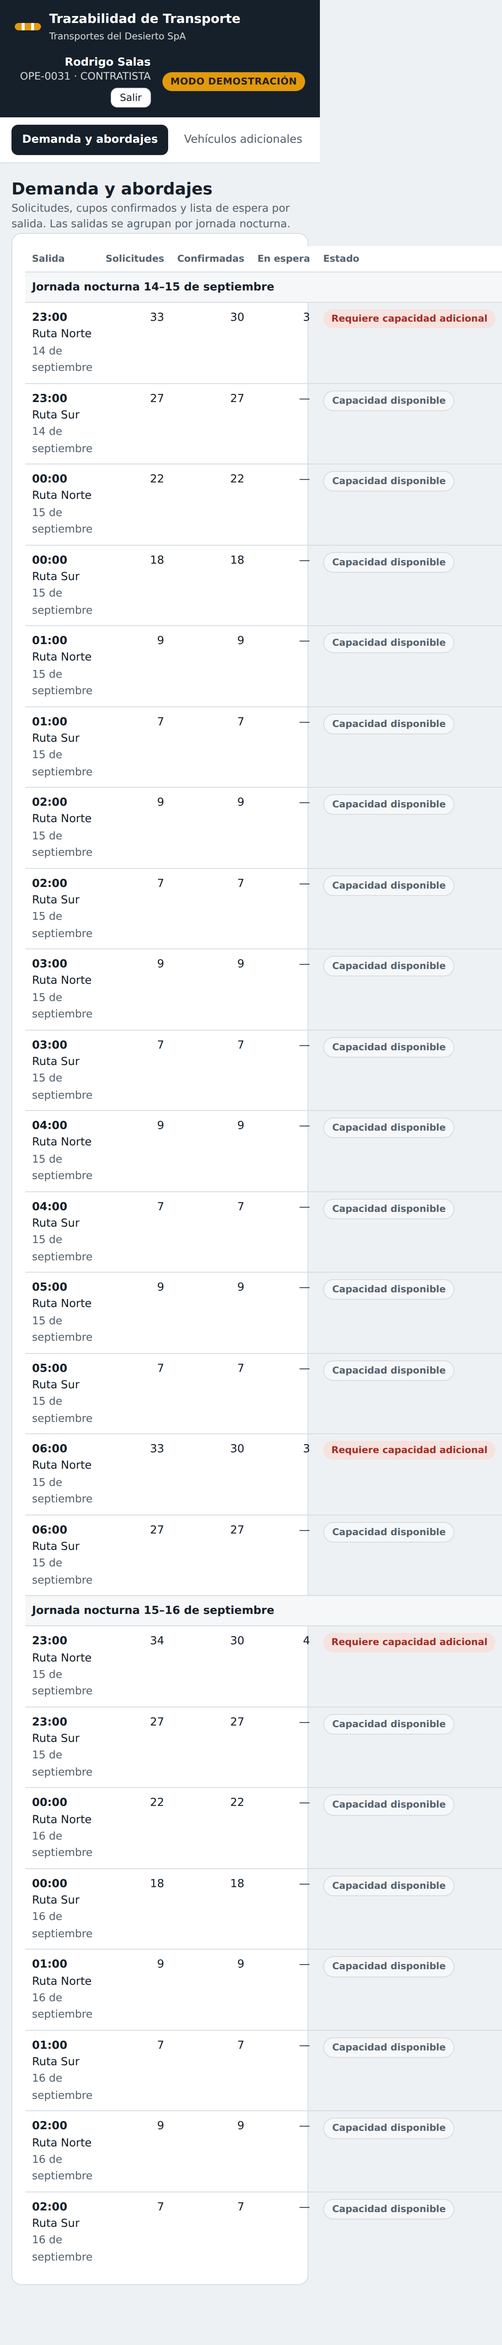
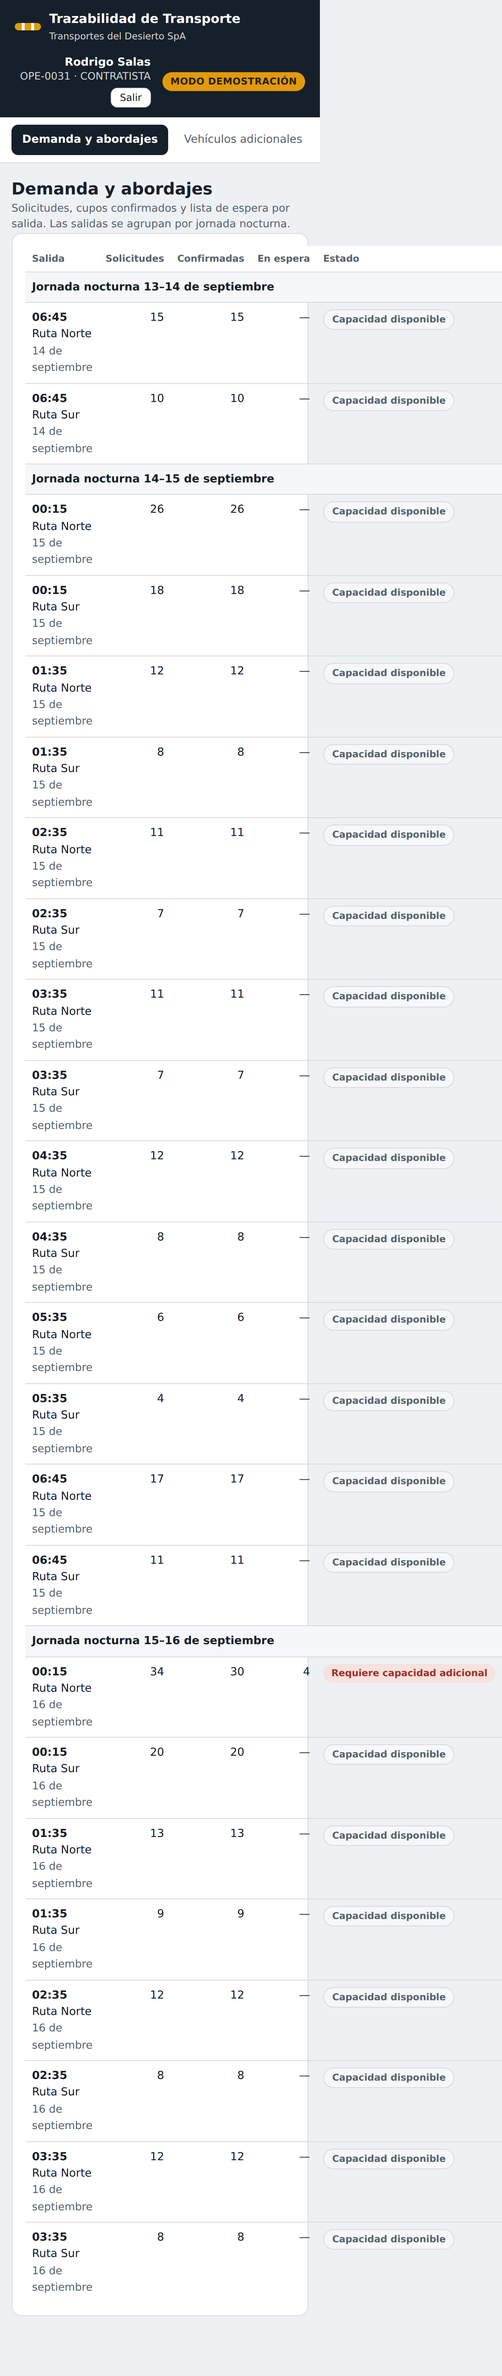
SPEC-003b: horario y demanda reales, extra ex post, tope por jornada; etapa 2 preparada
- app/: 7 salidas reales (H-022), demanda media real por salida y día
  (H-023), 4 vans × 15 (DEC-012), extra #1 de 2 vans validado ex post
  (DEC-009), tope de 2 vans extra por jornada (DEC-013), proyección 420,
  nueva solicitud permitida tras un Rechazado
- check-config 16/16, check-permisos 21/21, baseline PASS, E2E 12/12
- SPEC-003b, SPEC-006 (geolocalización de la van), SPEC-007 (MVP móvil en
  línea con ADR-001), cuestionario etapa 2, registro y backlog

Claude-Session: https://claude.ai/code/session_01LQhA5HvBgA1MaTVJupWpRJ

diff --git a/09-plataforma/app/index.html b/09-plataforma/app/index.html
@@ -120,7 +120,7 @@ tr:last-child td{border-bottom:none}
    migración a backend sea conectar, no rediseñar. La validación real de
    servidor pertenece a la fase 2 (ver aviso en la interfaz).
    Copia de trabajo — SPEC-002 aplicada (permisos en todas las mutaciones).
-   SPEC-003 aplicada (capacidad 15 por van, 2 vans extra).
+   SPEC-003 aplicada (capacidad 15 por van, 2 vans extra) · SPEC-003b: horario real 7 salidas, demanda real H-023, tope de extras por jornada.
    ========================================================================= */
 const KEY='trazabilidad_v3';   // SPEC-003 (QA D-1): clave versionada; un estado guardado con la semilla anterior a SPEC-003 no debe cargarse
 const AHORA=new Date('2026-09-15T18:30:00');
@@ -176,10 +176,11 @@ function semilla(){
      montoFijo:18500000, reglaDevengo:null,   // sin regla de devengo definida
      capacidadVan:15, vehiculos:4, vansExtraDisponibles:2, rutas:RUTAS,   // SPEC-003: 15 cupos garantizados por van; 2 vans extra completas a disposición
      origen:'Hotel Enjoy Antofagasta — Av. Angamos 01455',
-     frecuencias:'Salidas cada 1 hora desde el Enjoy; las vans recorren su ruta y regresan al hotel dentro del ciclo',
-     horarios:'Desde las 23:00 hasta las 06:00, cada 1 hora (8 salidas por jornada, por ruta — ventana operativa real del Enjoy) · ida (hotel → casas) y vuelta (casas → hotel) en cada ciclo',
+     frecuencias:'7 salidas por jornada desde el Enjoy según fin de turno; las vans recorren su ruta y regresan al hotel dentro del ciclo',
+     salidasPorJornada:7, salidas:[[0,15],[1,35],[2,35],[3,35],[4,35],[5,35],[6,45]],   // SPEC-003b (H-022): horario real del contratista
+     horarios:'Salidas a las 00:15, 01:35, 02:35, 03:35, 04:35, 05:35 y 06:45 (7 por jornada, por ruta — programación real del contratista); recogida cerca de las 23:00 para el ingreso de 00:00 · ida (hotel → casas) y vuelta (casas → hotel)',
      sentido:'Ida y vuelta en cada ciclo horario; puntos de bajada y de encuentro por definir con la planilla de trabajadores (SPEC-004)',
-     tiposVehiculo:'Van de pasajeros — 15 a 17 cupos por van (15 garantizados) · 2 vans por ruta', dotacion:300,
+     tiposVehiculo:'Van de pasajeros — 15 a 17 cupos por van (15 garantizados) · 4 vans en proyección, 2 por ruta', dotacion:394,
      reajuste:'IPC semestral (informativo — el monto reajustado se ingresa con trazabilidad)',
      extrasPermitidos:true, tarifaExtra:45000,
      requisitosExtra:'Demanda confirmada sobre los cupos de la salida, o contingencia operacional con evidencia',
@@ -187,26 +188,26 @@ function semilla(){
    servicios:[], reservas:[], extras:[], auditoria:[], conciliaciones:[]};
 
   const CAP=S.contrato.capacidadVan;   // SPEC-003 REQ-010: única fuente de la capacidad por van
-  const perfil=(h,ri)=>{ if(h===23||h===6) return ri===0?33:27;
-    if(h===0) return ri===0?22:18;
-    if(h>=1&&h<=5) return ri===0?9:7; return ri===0?20:14; };
-  const HORAS_OPERATIVAS=[23,0,1,2,3,4,5,6]; // ventana real Enjoy: 23:00–06:00, 1 salida/hora
+  // SPEC-003b (H-023): demanda media por salida de la semana real 31-08/06-09 (personas, ambas rutas) y factor por día de la jornada
+  const BASE_SALIDA=[55,24,22,23,25,13,35];                 // 00:15 · 01:35 · 02:35 · 03:35 · 04:35 · 05:35 · 06:45
+  const FACTOR_DIA=[0.7,0.8,0.9,1.0,1.2,1.4,1.4];            // domingo … sábado (jornada = noche que empieza ese día)
+  const perfil=(idx,ri,dow)=>Math.round(BASE_SALIDA[idx]*FACTOR_DIA[dow]*(ri===0?0.6:0.4));
   let sid=0,rid=0;
-  for(let d=8;d<=16;d++){
-    for(const hh of HORAS_OPERATIVAS){
-      const salida=new Date(2026,8,d,hh,0,0);
-      if(salida<new Date(2026,8,8,23,0,0)) continue;
-      if(salida>new Date(2026,8,16,6,0,0)) continue;
+  for(let d=9;d<=16;d++){
+    S.contrato.salidas.forEach(([hh,mm],idx)=>{
+      const salida=new Date(2026,8,d,hh,mm,0);
+      const dow=new Date(2026,8,d-1).getDay();            // día en que empieza la jornada nocturna
+      if(salida>new Date(2026,8,16,7,0,0)) return;
       RUTAS.forEach((R,ri)=>{
         sid++;
         const cierre=new Date(salida.getTime()-CIERRE_MIN*60000);
         const svc={id:sid,rutaIdx:ri,ruta:R.nombre,salida:salida.toISOString(),cierre:cierre.toISOString(),
           capacidadBase:R.vans*CAP,capacidadExtra:0,vans:R.vans,ejecutado:salida<AHORA};
         S.servicios.push(svc);
-        let n=perfil(hh,ri);
-        if(d===10&&hh===23&&ri===0) n=38; // caso extra #1: 38 solicitudes / 30 cupos, extra autorizado y utilizado
-        if(d===15&&hh===23&&ri===0) n=34; // caso de prueba: salida futura con lista de espera (34/30), sin extra
-        if(d===12&&hh===6&&ri===0) n=20; // caso Rechazado: demanda (20) bajo los 30 cupos, sin justificación
+        let n=perfil(idx,ri,dow);
+        if(d===13&&idx===0&&ri===0) n=56; // caso extra #1: sábado 12 → 00:15, 56 solicitudes / 30 cupos (real: 93 personas); 2 vans extra ex post
+        if(d===16&&idx===0&&ri===0) n=34; // caso de prueba: salida futura con lista de espera (34/30), sin extra
+        if(d===12&&idx===5&&ri===0) n=11; // caso Rechazado: demanda (11) bajo los 30 cupos, sin justificación
         for(let k=0;k<n;k++){ rid++;
           const p=R.paradas[k%R.paradas.length];
           S.reservas.push({id:rid,servicioId:sid,userId:((rid%299)+2),   // QA D-3: 2..300, nunca el userId 1 (Camila), que se asigna aparte
@@ -215,32 +216,32 @@ function semilla(){
             estado:'pendiente'});
         }
       });
-    }
+    });
   }
   // las reservas de Camila (userId 1) en servicios futuros de Ruta Norte
   const futuroN=S.servicios.filter(s=>!s.ejecutado&&s.rutaIdx===0).slice(0,3);
   futuroN.forEach((s,i)=>{ const r=S.reservas.find(r=>r.servicioId===s.id); if(r){r.userId=1;r.nombre='Camila Fuentes';} });
   S.extras=[
-   {id:1,servicioId:S.servicios.find(s=>s.rutaIdx===0&&dt(s.salida).getDate()===10&&dt(s.salida).getHours()===23).id,
-    motivo:'Reservas (38) superan los 30 cupos de la salida',tipo:'cuantitativa',vans:1,capacidadExtra:CAP,tarifa:45000,
-    estado:'Utilizado',solicitadoPor:2,fechaSolicitud:'2026-09-10T21:40:00',autorizadoPor:3,fechaAutorizacion:'2026-09-10T22:05:00',
-    motivoAutorizacion:'Demanda confirmada sobre capacidad',evidencia:{patente:true,salida:true,manifiesto:true},
-    pasajerosExtra:12,reclasificacion:null},
-   {id:2,servicioId:S.servicios.find(s=>s.rutaIdx===1&&dt(s.salida).getDate()===11&&dt(s.salida).getHours()===6).id,
+   {id:1,servicioId:S.servicios.find(s=>s.rutaIdx===0&&dt(s.salida).getDate()===13&&dt(s.salida).getHours()===0).id,
+    motivo:'Reservas (56) superan los 30 cupos de la salida — servicio prestado de madrugada, gestión presentada al día siguiente (DEC-009)',tipo:'cuantitativa',vans:2,capacidadExtra:2*CAP,tarifa:90000,
+    estado:'Utilizado',solicitadoPor:2,fechaSolicitud:'2026-09-13T09:30:00',autorizadoPor:3,fechaAutorizacion:'2026-09-13T11:10:00',
+    motivoAutorizacion:'Validación ex post: demanda confirmada sobre capacidad (DEC-009)',evidencia:{patente:true,salida:true,manifiesto:true},
+    pasajerosExtra:26,reclasificacion:null},
+   {id:2,servicioId:S.servicios.find(s=>s.rutaIdx===1&&dt(s.salida).getDate()===11&&dt(s.salida).getHours()===6).id,   // 06:45
     motivo:'Falla mecánica de una van al iniciar el recorrido',tipo:'operacional',vans:1,capacidadExtra:CAP,tarifa:45000,
-    estado:'Observado',solicitadoPor:2,fechaSolicitud:'2026-09-11T06:12:00',autorizadoPor:null,fechaAutorizacion:null,
+    estado:'Observado',solicitadoPor:2,fechaSolicitud:'2026-09-11T06:50:00',autorizadoPor:null,fechaAutorizacion:null,
     motivoAutorizacion:null,evidencia:{patente:true,salida:false,manifiesto:false},pasajerosExtra:11,reclasificacion:null,
     observacion:'Sin autorización previa; emergencia pendiente de validación y evidencia incompleta'},
-   {id:3,servicioId:S.servicios.find(s=>s.rutaIdx===0&&dt(s.salida).getDate()===12&&dt(s.salida).getHours()===6&&s.rutaIdx===0).id,
+   {id:3,servicioId:S.servicios.find(s=>s.rutaIdx===0&&dt(s.salida).getDate()===12&&dt(s.salida).getHours()===5).id,   // 05:35
     motivo:'Refuerzo preventivo por posible alta demanda',tipo:'cuantitativa',vans:1,capacidadExtra:CAP,tarifa:45000,
-    estado:'Rechazado',solicitadoPor:2,fechaSolicitud:'2026-09-12T05:40:00',autorizadoPor:3,fechaAutorizacion:'2026-09-12T05:55:00',
-    motivoAutorizacion:'Reservas (20) no superan los 30 cupos y sin contingencia acreditada',
+    estado:'Rechazado',solicitadoPor:2,fechaSolicitud:'2026-09-12T05:05:00',autorizadoPor:3,fechaAutorizacion:'2026-09-12T05:20:00',
+    motivoAutorizacion:'Reservas (11) no superan los 30 cupos y sin contingencia acreditada',
     evidencia:{patente:false,salida:false,manifiesto:false},pasajerosExtra:0,reclasificacion:null}];
   // QA D-2: el extra #1 fue autorizado y utilizado, por lo que su salida ya tiene la capacidad ampliada
-  { const s1=S.servicios.find(s=>s.id===S.extras[0].servicioId); s1.capacidadExtra=CAP; }
+  { const s1=S.servicios.find(s=>s.id===S.extras[0].servicioId); s1.capacidadExtra=S.extras[0].capacidadExtra; }
   S.auditoria=[
-   {fecha:'2026-09-10T22:05:00',usuario:'Patricia Molina',rol:'MANDANTE',accion:'Capacidad ampliada por extra #1',detalle:'Ruta Norte 23:00 — capacidad 30 → 45',anterior:'capacidad 30'},
-   {fecha:'2026-09-10T22:05:00',usuario:'Patricia Molina',rol:'MANDANTE',accion:'Extra #1 autorizado',detalle:'Demanda sobre capacidad',anterior:'En revisión'}];
+   {fecha:'2026-09-13T11:10:00',usuario:'Patricia Molina',rol:'MANDANTE',accion:'Capacidad ampliada por extra #1',detalle:'Ruta Norte 00:15 — capacidad 30 → 60',anterior:'capacidad 30'},
+   {fecha:'2026-09-13T11:10:00',usuario:'Patricia Molina',rol:'MANDANTE',accion:'Extra #1 validado ex post',detalle:'Servicio prestado de madrugada; gestión presentada al día siguiente (DEC-009)',anterior:'En revisión'}];
   recalcularTodo(S);
   return S;
 }
@@ -500,7 +501,7 @@ function vOperacion(){
 }
 function vExtras(){
   if(!requirePermission('ver:operacion')) return vDenegado();
-  const cand=S.servicios.filter(s=>!s.ejecutado&&!S.extras.some(e=>e.servicioId===s.id))
+  const cand=S.servicios.filter(s=>!s.ejecutado&&!S.extras.some(e=>e.servicioId===s.id&&e.estado!=='Rechazado'))   // un Rechazado no bloquea una nueva solicitud (nueva necesidad = nueva solicitud)
     .sort((a,b)=>a.salida<b.salida?-1:1).slice(0,14);
   return `<h1>Vehículos adicionales</h1><p class="sub">Se solicita una van completa (cupos según contrato) para una salida; hay ${S.contrato.vansExtraDisponibles} vans adicionales a disposición; se cobra por van, no por pasajero. El sistema muestra la justificación; la decisión es del mandante.</p>
   <div class="tarjeta" style="border-color:var(--ambar)"><h2>Solicitar van adicional</h2>
@@ -539,6 +540,10 @@ function creaSolicitud(sid){
   if(!N.auto&&!razon){alert('Debes indicar una razón operacional.');return;}
   const vans=Number(document.getElementById('mVans').value);   // QA D-4: sin valor por defecto silencioso
   if(!Number.isInteger(vans)||vans<1||vans>S.contrato.vansExtraDisponibles){alert('Solo hay '+S.contrato.vansExtraDisponibles+' van(es) adicional(es) a disposición según contrato.');return;}   // SPEC-003 R6
+  // SPEC-003b R7 (DEC-013): tope de vans extra por jornada nocturna, contando solicitudes no rechazadas
+  const J=jornadaDe(s.salida).id;
+  const usadas=S.extras.filter(e=>e.estado!=='Rechazado'&&jornadaDe(S.servicios.find(x=>x.id===e.servicioId).salida).id===J).reduce((a,e)=>a+e.vans,0);
+  if(usadas+vans>S.contrato.vansExtraDisponibles){alert('Tope por jornada: ya hay '+usadas+' van(es) extra solicitada(s) en esta jornada; el contrato permite '+S.contrato.vansExtraDisponibles+'.');return;}
   const id=Math.max(0,...S.extras.map(e=>e.id))+1;
   S.extras.push({id,servicioId:sid,motivo:(razon?razon+' — ':'')+motivo,tipo:N.auto?'cuantitativa':'operacional',
     vans,capacidadExtra:vans*S.contrato.capacidadVan,tarifa:S.contrato.tarifaExtra*vans,estado:'Solicitado',
@@ -620,8 +625,8 @@ function periodo(){
   const hasta=svcMes.filter(s=>s.ejecutado);
   const rsHasta=S.reservas.filter(r=>r.estado==='confirmada'&&hasta.some(s=>s.id===r.servicioId));
   const capHasta=hasta.reduce((a,s)=>a+capacidadTotal(s),0);
-  // proyección: el mes completo tiene 30 días × 8 salidas × 2 rutas (DEC-004)
-  const svcMesCompleto=30*8*2; // 8 salidas/ruta (23:00–06:00) × 2 rutas × 30 días
+  // proyección: el mes completo tiene 30 días × 7 salidas × 2 rutas (H-022, SPEC-003b)
+  const svcMesCompleto=30*S.contrato.salidasPorJornada*S.contrato.rutas.length;
   const factor=div(svcMesCompleto,hasta.length)||1;
   return {ejecutados:hasta.length,programados:svcMes.length,transportados:rsHasta.length,capacidad:capHasta,
     ocupacion:div(rsHasta.length,capHasta),cuposLibres:Math.max(capHasta-rsHasta.length,0),

diff --git a/06-gobernanza/registro-aprobaciones.md b/06-gobernanza/registro-aprobaciones.md
@@ -14,6 +14,10 @@
 | 2026-09-08 | DEC-010 | SPEC-001 D1–D4 y D6 | **Aprobadas las opciones sugeridas**: D1 RUT normalizado + organización como identificador; D2 el supervisor del mandante aprueba el alta, el contratista solo consulta; D3 verificación por correo corporativo con enlace de un solo uso, sin biometría; D4 retención período contractual + 12 meses y anonimización posterior, documentada en contrato de encargo (V-08); D6 simular alta/aprobación en `app/` con marca "simulación", backend pendiente de ADR-001 | Ver tabla de SPEC-001 | "Sí" del dueño a las opciones sugeridas | Eduardo | **Aprobada** |
 | 2026-09-08 | DEC-011 | Contacto comercial AllRide (V-10) | **Autorizado** solicitar demo o ficha técnica a AllRide con las preguntas cerradas de S2b. El contacto lo realiza Eduardo (identidad y relación comercial son suyas); el Supervisor prepara la lista de preguntas | No contactar; decidir con fragmentos | Cierra el vacío que decide comprar/configurar/construir | Eduardo | **Aprobada** |
 | 2026-09-08 | H-022 (evidencia observada) | Horario real de salidas | Reporte semanal del contratista al mandante (31-08 a 06-09-2026, captura entregada por el dueño): salidas **00:15, 01:35, 02:35, 03:35, 04:35, 05:35 y 06:45**, iguales de domingo a jueves y viernes-sábado-vísperas; el reporte excluye colaboradores con licencia o permiso de día completo; el ingreso de las 00:00 se recoge cerca de las 23:00. Difiere del "cada hora en punto" de DEC-004: son 7 salidas con minutos fijos. **No se cambia la semilla en este cierre**; queda como SPEC-003b | — | Documento operativo real (tipo observada/contractual) | Eduardo (fuente) | **Registrada, pendiente de SPEC** |
+| 2026-09-08 | DEC-012 | Proyección de flota | **Aprobada**: la proyección es de 4 vans, 15 personas por van (cierra V-17 en lo esencial) | — | Declaración del dueño | Eduardo | **Aprobada** |
+| 2026-09-08 | DEC-013 | Tope de extras | **Aprobada**: tope de 2 vans extra **por jornada nocturna** (no por solicitud). Implementado como R7 en SPEC-003b | Tope por solicitud | Declaración del dueño | Eduardo | **Aprobada** |
+| 2026-09-08 | V-18 cerrado | Agrupación de rutas | Hoy el **contratista** agrupa las direcciones en rutas | — | Declaración del dueño | Eduardo | Cerrado |
+| 2026-09-08 | Instrucción del dueño — etapa 2 | Alcance | Cerrar el MVP en una sesión más con conciliación y geolocalización de ruta "estilo Uber"; versión móvil en línea (Vercel o similar); trabajar desde carpeta spec-driven con cuestionario. El Supervisor registra que geolocalización, backend y publicación **requieren DEC específica** (manual sección 11) y preparó SPEC-006, SPEC-007/ADR-001 y el cuestionario para obtenerlas en una sola respuesta | — | — | Eduardo | Pendiente de las DEC que abre el cuestionario |
 | 2026-09-08 | H-023 (evidencia observada) | Demanda real del transfer | Planilla semanal del mandante 31-08 a 06-09-2026: 1.389 traslados de salida, 394 personas, 7 horarios; punta 00:15 con 40–93 personas (sábado 93 > 60 cupos de 4 vans); recogida hacia el hotel marginal (55). Original con datos personales **fuera del repositorio**; agregados en `02-descubrimiento/agregado-transfer-semana-31ago-06sep-2026.md` | — | Documento operativo real | Eduardo (fuente) | **Registrada; abre V-17, V-18 y SPEC-003b/SPEC-004** |
 | 2026-09-08 | V-16 (declarado, precisado por DEC-008; queda solo la cifra "24 viajes") | Configuración operativa real | El dueño declara: "las 24 viajes son de 4 vans diferentes, cerca de 15 pasajeros". Contradice la configuración del prototipo (vans de 4 cupos, 2 rutas × 2 vans, 8 salidas/ruta/noche = 16 salidas). **No se altera el prototipo hasta precisar**: ver SPEC-003 borrador | — | Evidencia declarada; el manual exige elevar la decisión, no alterar en silencio | Eduardo (pendiente) | **Pendiente de precisión** |
 

diff --git a/06-gobernanza/cuestionario-etapa-2.md b/06-gobernanza/cuestionario-etapa-2.md
@@ -1,0 +1,41 @@
+# Cuestionario etapa 2 — lo que necesito para cerrar el MVP con el mínimo de tokens
+Responde en un solo mensaje, con el número y una línea. Donde hay opción sugerida, basta "ok". Lo que no respondas se toma con la opción sugerida y queda registrado como supuesto.
+
+## A. Geolocalización de ruta "estilo Uber" (SPEC-006)
+| # | Pregunta | Opción sugerida |
+|---|---|---|
+| A1 | ¿Qué se geolocaliza: la **van** (conductor, teléfono del contratista) o el **trabajador**? | Solo la van. Rastrear personas en continuo choca con la Ley 21.719 (H-001) y con el límite de producto ya decidido |
+| A2 | ¿Quién ve la posición de la van en vivo? | Trabajador con reserva confirmada en esa salida (solo su van); contratista y mandante ven todas |
+| A3 | ¿Qué se guarda después del viaje? | Solo eventos: salida del hotel, llegada a cada parada, fin de ruta, con hora y coordenada. No el rastro completo |
+| A4 | ¿Con qué se captura la posición? | GPS del teléfono del conductor desde la app móvil, al pulsar "Iniciar ruta" |
+| A5 | ¿Se necesita mapa con calles (proveedor externo) o basta un esquema con paradas y avance? | Para el MVP, mapa abierto sin cuenta ni costo (OpenStreetMap con Leaflet); se decide proveedor pago en G2 |
+
+## B. Puntos de ruta (SPEC-004)
+| # | Pregunta | Opción sugerida |
+|---|---|---|
+| B1 | ¿Me autorizas a agrupar las 312 calles de la planilla en sectores para proponer paradas? Necesito geocodificar direcciones anonimizadas (calle sin número + Antofagasta) con un servicio abierto | Sí, con calles sin número y sin nombres |
+| B2 | ¿Cuántas paradas por ruta como máximo tolera el ciclo de ~50 y ~30 minutos? | 6 Norte, 4 Sur, como hoy |
+| B3 | ¿Las 4 vans salen todas a la misma hora en cada salida, o se reparten? | Todas a la misma hora, 2 por ruta |
+
+## C. Versión móvil en línea (SPEC-007 / ADR-001)
+| # | Pregunta | Opción sugerida |
+|---|---|---|
+| C1 | ¿Quién tendrá la cuenta de hosting? | Eduardo, en Vercel (plan gratuito); el Supervisor prepara el proyecto y Eduardo pulsa "deploy" |
+| C2 | ¿Dominio propio o subdominio del proveedor? | Subdominio gratuito para el MVP |
+| C3 | ¿Datos compartidos entre celulares? Hoy cada navegador guarda lo suyo. Para que el mandante vea la reserva del trabajador hace falta un backend | Sí: Supabase (Postgres + auth, plan gratuito), en ADR-001 con costo verificado antes de contratar |
+| C4 | ¿Se aceptan datos ficticios en la versión en línea hasta tener contrato de encargo de datos (V-08)? | Sí, ficticios hasta firmar |
+| C5 | ¿Instalación como app en el celular (PWA, "añadir a pantalla de inicio") o app de tienda? | PWA; tiendas fuera de alcance |
+
+## D. Conciliación y extras
+| # | Pregunta | Opción sugerida |
+|---|---|---|
+| D1 | Plazo para presentar el extra ex post (DEC-009) | Hasta las 12:00 del día siguiente |
+| D2 | ¿Quién valida el extra ex post en el mandante? | Supervisor del mandante (Patricia en la demo) |
+| D3 | ¿La conciliación mensual se emite en PDF descargable? | Sí, una página, correlativo CT-AAAA-NN |
+| D4 | ¿Tarifa por van extra real y monto fijo real del contrato? | Se mantienen los de demo hasta recibir el contrato (V-05) |
+
+## E. Datos que faltan (adjuntar cuando existan)
+- E1 Contrato de transporte, aunque sea anonimizado (V-05).
+- E2 Patentes e inscripción TTEPRIV de las vans (V-07), sin datos del conductor.
+- E3 Respuesta de AllRide a las preguntas de S2b (DEC-011).
+- E4 Planilla semanal siguiente, solo con las columnas: n° interno, calle sin número, fin de turno, salida transfer.

diff --git a/04-especificaciones/SPEC-007-mvp-movil-en-linea.md b/04-especificaciones/SPEC-007-mvp-movil-en-linea.md
@@ -1,0 +1,30 @@
+# SPEC-007 — MVP móvil en línea (multiusuario real)
+Estado: **Borrador — requiere DEC de backend y de publicación** (manual, sección 11: publicar o desplegar siempre requiere humano). Propietario humano: Eduardo Perrot. Origen: instrucción del dueño 2026-09-08 ("versión para celular en línea, Vercel o algo relacionado"), ADR-001, SPEC-001 (DEC-010), SPEC-002, SPEC-006.
+
+## 1. Problema y resultado
+El HTML actual vive en un solo navegador: la reserva de Camila no la ve Rodrigo. Resultado: la misma app, instalable en el celular, con datos compartidos y permisos validados en servidor.
+
+## 3. Alcance del MVP en línea
+Incluido: interfaz actual convertida a PWA (manifest, ícono, "añadir a pantalla de inicio", funciona sin señal para consultar); autenticación por correo con enlace de un solo uso (DEC-010 D3); base de datos con las entidades de ADR-001; reglas de acceso en servidor equivalentes a `requirePermission` (SPEC-002 R2/R3) y a las reglas de negocio (tope por jornada, observado no concilia); despliegue en hosting estático + backend administrado.
+Excluido en esta SPEC: geolocalización (SPEC-006, se apoya en esta base), integraciones con terceros, datos personales reales antes del contrato de encargo (V-08).
+
+## ADR-001 — opciones concretas para decidir (sin cotización inventada; precios a verificar en la web del proveedor antes de contratar)
+| Opción | Qué es | A favor | En contra | Costo de arranque |
+|---|---|---|---|---|
+| A. Vercel (estático) + Supabase (Postgres, auth, reglas por fila, tiempo real) | La interfaz actual, sin framework, sirviendo desde Vercel; datos y login en Supabase | Cero servidor propio; reglas de acceso por fila en base de datos; tiempo real para la posición de la van; planes gratuitos para piloto | Dependencia de dos proveedores; residencia de datos fuera de Chile (V-04) | Gratis para el piloto según planes publicados; verificar límites |
+| B. Vercel + Firebase (Firestore, auth) | Igual que A con Google | Muy usado en móviles; tiempo real | Reglas de seguridad menos expresivas para multiempresa; modelo documental complica la conciliación | Gratis para piloto; verificar |
+| C. Servidor propio (Node + Postgres en un VPS chileno) | Backend a medida | Control total y residencia en Chile | Operación, respaldos y seguridad a cargo del proyecto; más tiempo | Desde un VPS mensual; verificar |
+**Recomendación del Supervisor:** A, por proporcionalidad (manual: "costo de implantación proporcional") y porque las reglas por fila cubren el aislamiento por organización y contrato. Decisión de Eduardo en G2/G4 abreviadas.
+
+## Plan de construcción (3 cortes verticales, cada uno con SPEC breve y prueba)
+1. Corte 1: PWA + login por correo + lectura de salidas y reservas desde la base (trabajador reserva; contratista ve demanda).
+2. Corte 2: extras con estados, tope por jornada, validación ex post (DEC-009), evidencia y auditoría en servidor.
+3. Corte 3: conciliación con cierre inmutable y PDF; luego SPEC-006 posición de la van.
+
+## Requisitos transversales
+- REQ-030 Ninguna regla de acceso vive solo en el cliente; QA intenta ID ajeno, contrato ajeno y mutación tras cierre (08-validacion/criterios.md).
+- REQ-031 Zona horaria America/Santiago en servidor y base (T-10).
+- REQ-032 Semilla ficticia en línea hasta contrato de encargo de datos; un solo interruptor "modo demostración".
+
+## 11. Decisiones que faltan
+C1–C5 del cuestionario; aprobación de proveedor (DEC), de publicación (DEC) y de uso de datos reales (DEC, después de V-08).

diff --git a/04-especificaciones/SPEC-006-geolocalizacion-ruta.md b/04-especificaciones/SPEC-006-geolocalizacion-ruta.md
@@ -1,0 +1,30 @@
+# SPEC-006 — Seguimiento de la van en ruta ("estilo Uber", acotado)
+Estado: **Borrador — requiere DEC** (datos personales y alcance). Propietario humano: Eduardo Perrot. Origen: instrucción del dueño 2026-09-08 ("conciliación geolocalización para ruta, estilo Uber"), H-001, H-002, H-013, H-014, cuestionario A1–A5.
+
+## 1. Problema y resultado
+El trabajador no sabe dónde viene la van ni cuánto falta; el mandante no tiene evidencia de que la ruta se ejecutó con sus paradas. Resultado: cada salida deja un **registro de ejecución** (salida del hotel, paso por cada parada, fin) con hora y coordenada, y el trabajador con reserva ve la van acercarse en un mapa.
+
+## 2. Evidencia y límite
+- H-001: rastrear personas en continuo es tratamiento de alto riesgo. **Se geolocaliza la van, nunca al trabajador.** El teléfono del trabajador no envía posición.
+- H-013/H-014: el manifiesto y el registro de ejecución son la evidencia que venden los líderes; la posición en vivo es comodidad, la evidencia es el producto.
+- H-002: la van rastreada debe ser un vehículo identificado (patente) — enlaza con el maestro de vehículos (T-12).
+
+## 3. Alcance del MVP
+Incluido: botón "Iniciar ruta" del conductor u operador del contratista (GPS del teléfono, envío cada 15–30 s mientras la ruta está activa); mapa con paradas y posición actual visible para el trabajador con reserva confirmada en esa salida y para contratista y mandante; eventos de parada registrados (automáticos por cercanía o manuales); al cerrar la ruta se conserva solo la lista de eventos, no el rastro.
+Excluido: geocercas sobre personas, cámaras de fatiga, tracking fuera de la ruta activa, cálculo de tiempos de llegada con tráfico (queda como estimación por distancia).
+
+## 4. Requisitos (borrador)
+- REQ-020 La posición se asocia a `vehiculo` + `servicio`, nunca a `usuario` trabajador.
+- REQ-021 Solo hay posición mientras la ruta está "activa"; al cerrar, se borra el rastro y quedan los eventos.
+- REQ-022 El trabajador ve únicamente la van de su reserva confirmada; acceso por contrato y titularidad (SPEC-002 en servidor).
+- REQ-023 Eventos de parada alimentan el manifiesto y la evidencia del extra (patente, salida, ruta efectiva; sección 6 del prompt original).
+- REQ-024 Sin señal: el teléfono del conductor acumula eventos y sincroniza al recuperar red.
+
+## 6. Autorización y datos
+Responsable: mandante; encargado: plataforma (V-08). Retención de eventos: la misma que las reservas (DEC-010 D4). Base de licitud: ejecución del contrato. Evaluación de impacto recomendada antes del piloto real.
+
+## 8. Aceptación (a completar)
+AC: trabajador sin reserva no ve ninguna van · trabajador de contrato B no ve vans de A · al cerrar ruta no queda rastro · evento de parada con hora y coordenada por cada parada de la ruta · conductor sin señal sincroniza después.
+
+## 11. Decisiones abiertas
+A1–A5 del cuestionario. **Requiere backend (SPEC-007/ADR-001): la posición debe viajar entre teléfonos; no es posible en el HTML autónomo.**

diff --git a/00-contexto/ESTADO-ACTUAL.md b/00-contexto/ESTADO-ACTUAL.md
@@ -42,9 +42,17 @@ DEC-001 investigación autorizada; DEC-002 secuencia S1→S2→S3→S4→S5; DEC
 ## Cierre de etapa parcial (2026-09-08, final)
 Ver `06-gobernanza/cierre-etapa-1.md`. Nuevas decisiones: DEC-009 extra ex post (madrugada sin autorizador; solicitud al día siguiente), DEC-010 SPEC-001 D1–D6 aprobadas, DEC-011 contacto AllRide autorizado. Evidencia nueva H-022: horario real del contratista 00:15, 01:35, 02:35, 03:35, 04:35, 05:35, 06:45 (7 salidas, no "cada hora en punto"); no aplicado aún a la semilla.
 
+## Avance posterior al cierre (misma fecha)
+- DEC-012 (4 vans, 15 por van), DEC-013 (tope 2 vans extra por jornada), V-18 cerrado (el contratista agrupa rutas).
+- **SPEC-003b implementada y verificada** en `app/`: 7 salidas reales, demanda real reescalada (H-023), extra #1 ex post de 2 vans (DEC-009), tope por jornada, proyección 420. Pruebas 16/16, 21/21, baseline PASS, E2E 12/12. Sin revisión QA independiente por restricción de tokens (T-15).
+- Etapa 2 preparada: `06-gobernanza/cuestionario-etapa-2.md` (responder en un mensaje), `SPEC-006-geolocalizacion-ruta.md` (van, no persona) y `SPEC-007-mvp-movil-en-linea.md` con ADR-001 en tres opciones (recomendada: Vercel + Supabase).
+
 ## Prioridad de arranque (próxima sesión)
-0. Leer `06-gobernanza/cierre-etapa-1.md` y seguir su orden: SPEC-003b (H-022), SPEC-005 (DEC-009), SPEC-004 (planilla), SPEC-001 completa, V-10, ADR-001.
-1. Observaciones del dueño tras la demo.
+0. Leer el cuestionario respondido; registrar las DEC que abre (proveedor, publicación, geolocalización de la van, datos ficticios en línea).
+1. SPEC-007 corte 1 (PWA + login + datos compartidos) con constructor y revisor-qa; T-15 revisión QA de SPEC-003b.
+2. SPEC-004 puntos de ruta con la planilla anonimizada (B1–B3); SPEC-005 extra ex post con plazo (D1–D2).
+3. SPEC-006 posición de la van sobre el backend del corte 1.
+4. Conciliación con PDF (D3) y cierre inmutable (T-08).
 2. Planilla de trabajadores **anonimizada** según `02-descubrimiento/LEEME-planilla.md` → SPEC-004 (puntos de bajada y encuentro, reserva por sentido).
 3. Decisiones D1–D4 y D6 de SPEC-001 (basta un "sí" a las opciones sugeridas o corregirlas).
 4. Autorización para demo o contacto con AllRide (cierre total de V-10); PDF fechado de sus páginas.

diff --git a/07-backlog/tareas.md b/07-backlog/tareas.md
@@ -11,7 +11,10 @@
 | T-08 | Extras/evidencia/cierre inmutable | Especificar tras flujo inicial | Cierre reproducible sin alteración histórica |
 | T-09 | SPEC-003 configuración operativa real (DEC-008: 15 cupos/van, 2 vans extra, cobro por van) | **Implementada y revisada** (15/15, QA sin bloqueantes); falta contraprueba manual del dueño. Pendiente menor: D-5, D-6, D-8 y tope por jornada | Parámetros en contrato, semilla regenerada, pruebas + QA |
 | T-11 | SPEC-004 reserva por sentido (ida/vuelta) y puntos de bajada/encuentro | Depende de la planilla anonimizada de trabajadores (`02-descubrimiento/`) | Puntos con densidad real, reserva por sentido, "24 viajes" reconciliado |
-| T-13 | SPEC-003b horario real del contratista (H-022: 7 salidas con minutos fijos, recogida 23:00 para ingreso 00:00) | Pendiente de SPEC; cambio de semilla y `check-baseline`/`check-config` | Semilla con horas reales, pruebas verdes |
+| T-13 | SPEC-003b horario y demanda reales | **Hecha y verificada** (16/16, E2E 12/12) | — |
+| T-15 | Revisión QA independiente de SPEC-003b (omitida por tokens) | Pendiente | Informe revisor-qa sin bloqueantes |
+| T-16 | SPEC-007 MVP móvil en línea: cortes 1–3 (PWA, login, datos compartidos, extras, conciliación PDF) | Depende de C1–C5 y DEC de proveedor/publicación | Cada corte con SPEC, prueba y QA |
+| T-17 | SPEC-006 posición de la van en ruta | Depende de A1–A5, DEC de datos y de T-16 corte 1 | AC de aislamiento y borrado de rastro |
 | T-14 | SPEC-005 extra ex post (DEC-009): solicitud al día siguiente con justificación, plazo, validación del mandante | Pendiente de SPEC; el prototipo ya tiene Observado → validar emergencia | Flujo completo con auditoría y prueba |
 | T-12 | Maestro de vehículos con capacidad real por patente (15–17) y habilitación TTEPRIV (H-002/H-011) | Especificar tras SPEC-003 | Extra valida vehículo habilitado |
 | T-10 | Huso horario: clasificación mensual por prefijo UTC vs America/Santiago; `reset` de demo sin permiso (QA D-3) | Pendiente de SPEC | Prueba que cruce medianoche y fin de mes |

diff --git a/04-especificaciones/SPEC-003b-horario-y-demanda-real.md b/04-especificaciones/SPEC-003b-horario-y-demanda-real.md
@@ -1,0 +1,21 @@
+# SPEC-003b — Horario y demanda reales en la demo
+Estado: **Verificada** (DOM simulado 16/16, E2E Chromium 12/12). Propietario humano: Eduardo Perrot. Origen: H-022, H-023, DEC-009, DEC-012, DEC-013.
+Salvedad de proceso: implementada por el Supervisor sin revisión independiente de `revisor-qa` por restricción de tokens declarada por el dueño; queda T-15 para esa revisión.
+
+## Problema
+La demo usaba 8 salidas en punto y una demanda inventada. La planilla real (H-023) muestra 7 salidas con minutos fijos y una punta de 40–93 personas a las 00:15.
+
+## Reglas aplicadas en `09-plataforma/app/index.html`
+- R1 Salidas por jornada y ruta: 00:15, 01:35, 02:35, 03:35, 04:35, 05:35, 06:45 (`contrato.salidas`, `salidasPorJornada: 7`).
+- R2 Demanda sembrada = media real por salida (55, 24, 22, 23, 25, 13, 35 personas) × factor del día de la jornada (do 0,7 · lu 0,8 · ma 0,9 · mi 1,0 · ju 1,2 · vi 1,4 · sá 1,4) × reparto Norte 60 % / Sur 40 %. Dotación 394.
+- R3 Proyección mensual = 30 × 7 × 2 = 420 servicios (sustituye REQ-013 de SPEC-003).
+- R4 Extra #1 sembrado ilustra DEC-009: sábado 12 → 00:15 Norte con 56 solicitudes (real: 93 personas), 2 vans prestadas de madrugada y **validadas ex post** al día siguiente por el mandante.
+- R5 4 vans en proyección, 15 personas por van (DEC-012); capacidad base 30 por ruta y salida.
+- R6 Una salida con extra Rechazado admite una nueva solicitud (nueva necesidad = nueva solicitud).
+- R7 **Tope de 2 vans extra por jornada nocturna** (DEC-013), contando solicitudes no rechazadas.
+
+## Aceptación
+AC-04 siete salidas con el horario real · AC-05/AC-11 extra #1 de 2 vans ex post con capacidad 30 → 60 · AC-15 proyección 420 · AC-16 tope por jornada (con 1 van ya autorizada, 2 más se rechazan y 1 más se acepta). Los demás AC de SPEC-003 se mantienen.
+
+## Límite
+La demanda es media semanal reescalada, no la planilla persona a persona; eso llega con SPEC-004 (planilla anonimizada → reservas prellenadas).
